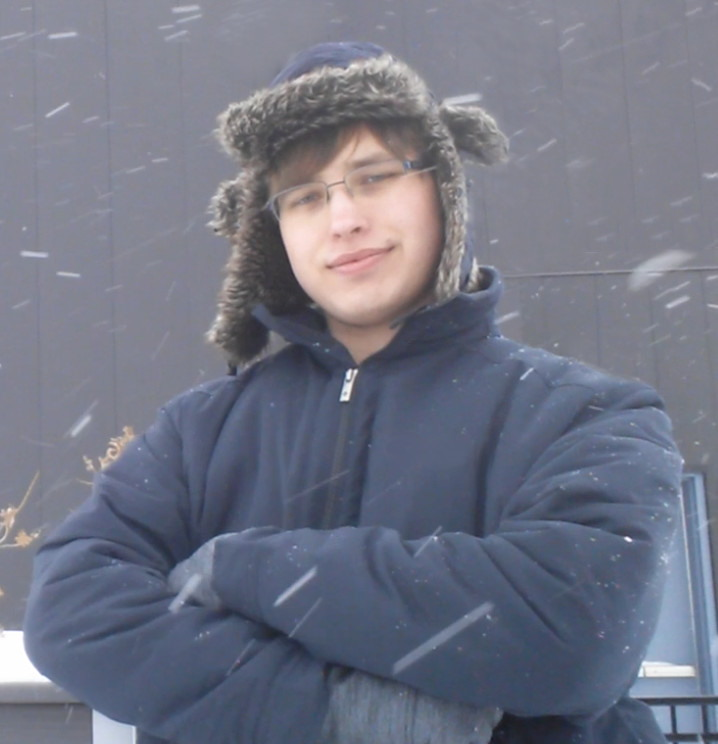
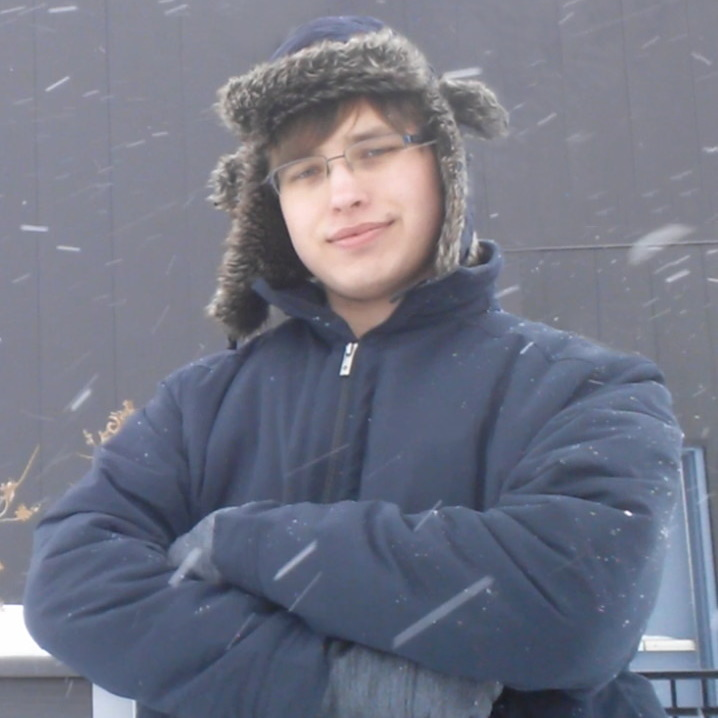
Update Lawrence's picture. Fix names. Add COVID note. Add invitation. Delete never needed functionality.

diff --git a/Pages/Invitation.cshtml.cs b/Pages/Invitation.cshtml.cs
@@ -1,0 +1,25 @@
+using System;
+using System.Collections.Generic;
+using System.Linq;
+using System.Threading.Tasks;
+using Microsoft.AspNetCore.Mvc;
+using Microsoft.AspNetCore.Mvc.RazorPages;
+using Microsoft.Extensions.Logging;
+
+namespace WedSite.Pages
+{
+    public class InvitationModel : PageModel
+    {
+        private readonly ILogger<FAQsModel> _logger;
+
+        public InvitationModel(ILogger<FAQsModel> logger)
+        {
+            _logger = logger;
+        }
+
+        public void OnGet()
+        {
+
+        }
+    }
+}

diff --git a/Program.cs b/Program.cs
@@ -14,7 +14,6 @@ namespace WedSite
             Host.CreateDefaultBuilder(args)
                 .ConfigureWebHostDefaults(webBuilder => webBuilder.UseStartup<Startup>())
                 .ConfigureServices(services => services
-                    .AddHostedService<IpAddressResolver>()
-                    .AddHostedService<AutoBackup>());
+                    .AddHostedService<IpAddressResolver>());
     }
 }
